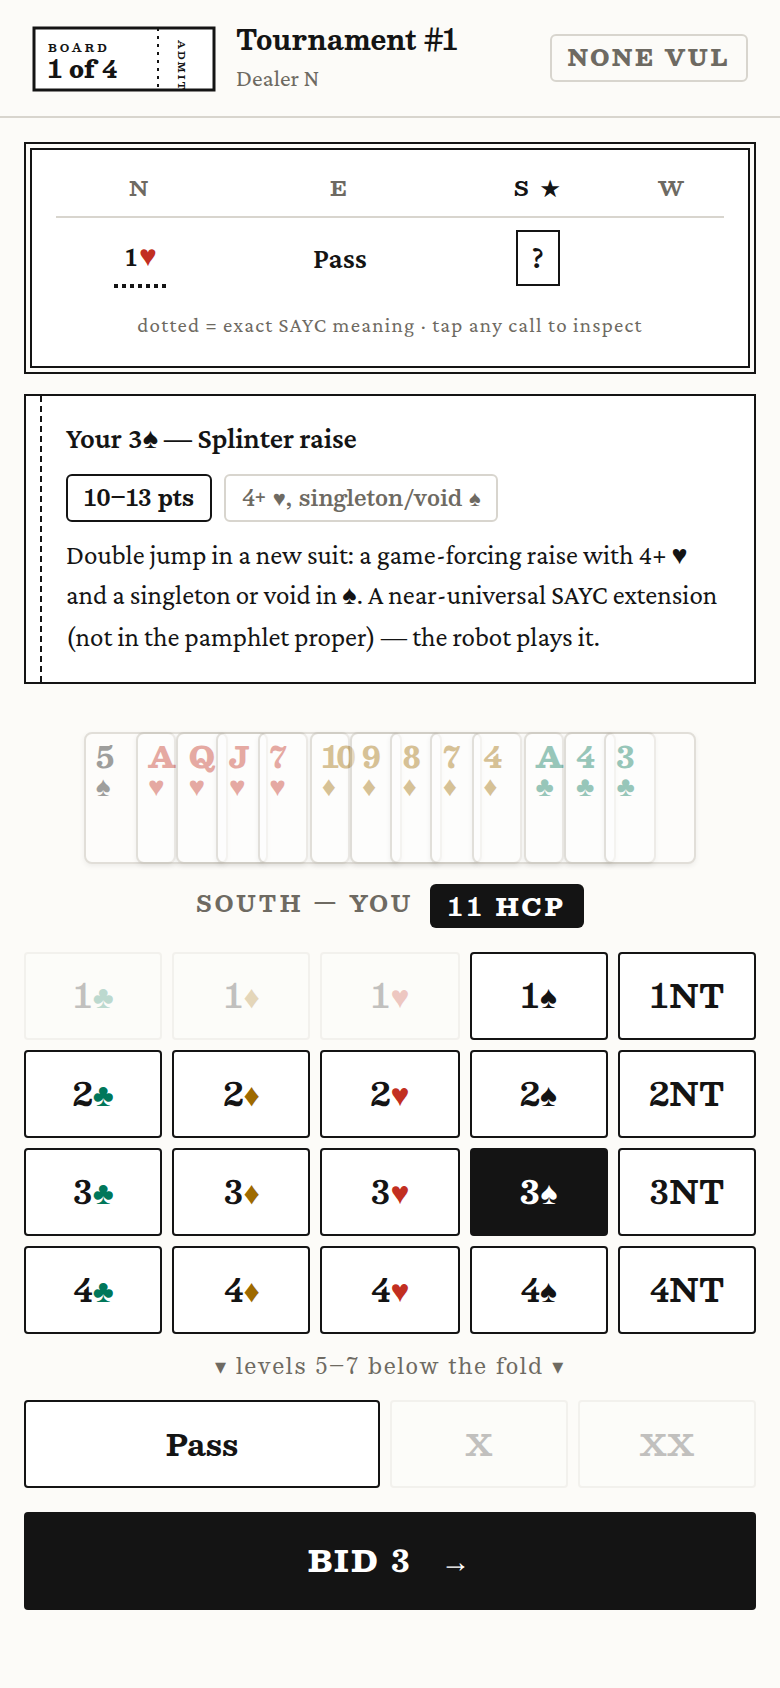
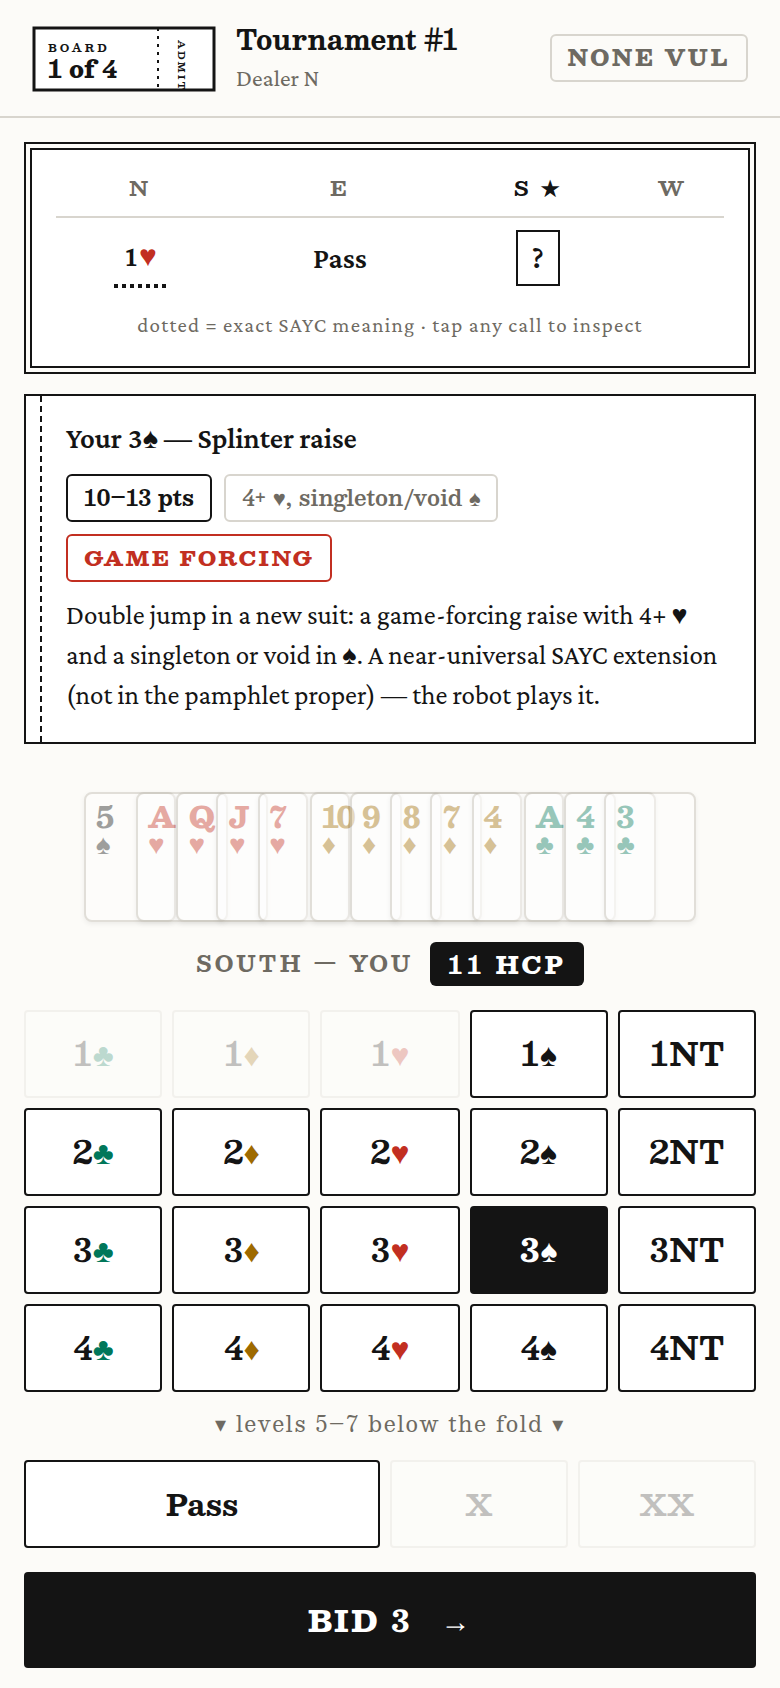
Add forcing / game-forcing chips to bid meaning panels
New BidMeaning.forcing field ('one-round' | 'game') rendered as a
qualifier chip next to the points/shape chips in the meaning panel and
call inspector: red GAME FORCING, ink FORCING. Annotated across the
explainer: forcing one round (new suits by responder, 2C opening,
reverse, new suit over a preempt, takeout/negative doubles, Michaels)
and game forcing (jump shift, splinter, 2NT response, positive
responses to 2C, opener's jump shift).

Claude-Session: https://claude.ai/code/session_01LmTkZCLQctt6mjnH2m7avz

diff --git a/packages/core/src/sayc.ts b/packages/core/src/sayc.ts
@@ -35,6 +35,8 @@ export interface BidMeaning {
   shapePromise?: string;
   /** true when the call is a recognized artificial/conventional bid */
   artificial?: boolean;
+  /** partner may not pass: forcing for one round, or forcing to game */
+  forcing?: 'one-round' | 'game';
   /** false when we fell back to a generic explanation */
   exact: boolean;
   /**
@@ -178,7 +180,7 @@ function explainDouble(ctx: Ctx): BidMeaning {
     return meaning(
       'Negative double',
       'Takeout of the overcall: shows the unbid major(s) (typically exactly 4 cards) and enough points to compete — about 6+ at the one level, 8+ at the two level. Partner is asked to pick a suit.',
-      { points: '6+ pts', artificial: true },
+      { points: '6+ pts', artificial: true, forcing: 'one-round' },
     );
   }
 
@@ -194,7 +196,7 @@ function explainDouble(ctx: Ctx): BidMeaning {
     return meaning(
       'Takeout double',
       `Asks partner to bid their best unbid suit. Shows opening values (13+ points, or a bit less with perfect shape), shortness in ${S[strain]}, and support for the unbid suits.`,
-      { points: '13+ pts (or 11–12 with ideal shape)', artificial: true },
+      { points: '13+ pts (or 11–12 with ideal shape)', artificial: true, forcing: 'one-round' },
     );
   }
 
@@ -279,7 +281,7 @@ function explainOpening(level: number, strain: Strain): BidMeaning | null {
       return meaning(
         '2♣ opening',
         'Strong and artificial — says nothing about clubs. Almost game-forcing: 22+ HCP, or a hand within one trick of game. Partner must respond (2♦ is the usual "waiting" reply).',
-        { points: '22+ pts', artificial: true, req: { minHcp: 21 } },
+        { points: '22+ pts', artificial: true, forcing: 'one-round', req: { minHcp: 21 } },
       );
     if (strain === 4)
       return meaning('2NT opening', 'A balanced 20–21 HCP. Not forcing; partner may pass with a very weak hand.', {
@@ -496,6 +498,7 @@ function explainResponse(ctx: Ctx, call: Call, level: number, strain: Strain): B
       return meaning('2NT response', 'Balanced 13–15 points without a fit — forcing to game in SAYC.', {
         points: '13–15 HCP',
         shapePromise: 'balanced',
+        forcing: 'game',
         req: { minHcp: 13, maxHcp: 15, balanced: true },
       });
     if (call === makeBid(3, 4))
@@ -521,6 +524,7 @@ function explainResponse(ctx: Ctx, call: Call, level: number, strain: Strain): B
             points: '10–13 pts',
             shapePromise: `4+ ${S[openStrain]}, singleton/void ${S[strain]}`,
             artificial: true,
+            forcing: 'game',
             req: { minHcp: 9, maxHcp: 14, suits: [{ strain: openStrain, min: 4 }, { strain, max: 1 }] },
           },
         );
@@ -528,13 +532,23 @@ function explainResponse(ctx: Ctx, call: Call, level: number, strain: Strain): B
         return meaning(
           'Jump shift',
           `A strong jump in a new suit: 17+ points with a good 5+ card ${S[strain]} suit. Game forcing, suggests slam.`,
-          { points: '17+ pts', shapePromise: `5+ ${S[strain]}`, req: { minHcp: 16, suits: [{ strain, min: 5 }] } },
+          {
+            points: '17+ pts',
+            shapePromise: `5+ ${S[strain]}`,
+            forcing: 'game',
+            req: { minHcp: 16, suits: [{ strain, min: 5 }] },
+          },
         );
       if (level === 1)
         return meaning(
           `New suit at the 1 level`,
           `Natural and forcing one round: 4+ ${S[strain]} and 6+ points. Opener must bid again.`,
-          { points: '6+ pts', shapePromise: `4+ ${S[strain]}`, req: { minHcp: 5, suits: [{ strain, min: 4 }] } },
+          {
+            points: '6+ pts',
+            shapePromise: `4+ ${S[strain]}`,
+            forcing: 'one-round',
+            req: { minHcp: 5, suits: [{ strain, min: 4 }] },
+          },
         );
       if (level === minLevel)
         return meaning(
@@ -543,6 +557,7 @@ function explainResponse(ctx: Ctx, call: Call, level: number, strain: Strain): B
           {
             points: '10+ pts',
             shapePromise: `${strain === 2 && openStrain === 3 ? '5+' : '4+'} ${S[strain]}`,
+            forcing: 'one-round',
             req: { minHcp: 10, suits: [{ strain, min: strain === 2 && openStrain === 3 ? 5 : 4 }] },
           },
         );
@@ -555,11 +570,17 @@ function explainResponse(ctx: Ctx, call: Call, level: number, strain: Strain): B
       return meaning(
         `Positive response`,
         `Natural and positive opposite the strong 2♣: a good 5+ card ${S[strain]} suit and 8+ points. (With less, respond 2♦ waiting.)`,
-        { points: '8+ pts', shapePromise: `5+ ${S[strain]}`, req: { minHcp: 7, suits: [{ strain, min: 5 }] } },
+        {
+          points: '8+ pts',
+          shapePromise: `5+ ${S[strain]}`,
+          forcing: 'game',
+          req: { minHcp: 7, suits: [{ strain, min: 5 }] },
+        },
       );
     return meaning('2NT positive', 'Balanced 8+ points opposite the strong 2♣ opening.', {
       points: '8+ HCP',
       shapePromise: 'balanced',
+      forcing: 'game',
       req: { minHcp: 8, balanced: true },
     });
   }
@@ -576,7 +597,12 @@ function explainResponse(ctx: Ctx, call: Call, level: number, strain: Strain): B
       return meaning(
         'New suit over the preempt',
         `Natural and forcing: a good 5+ card ${S[strain]} suit and interest in game.`,
-        { points: '15+ pts', shapePromise: `5+ ${S[strain]}`, req: { minHcp: 14, suits: [{ strain, min: 5 }] } },
+        {
+          points: '15+ pts',
+          shapePromise: `5+ ${S[strain]}`,
+          forcing: 'one-round',
+          req: { minHcp: 14, suits: [{ strain, min: 5 }] },
+        },
       );
     if (strain === 4 && level === 3)
       return meaning('3NT over the preempt', 'To play: stoppers in the unbid suits and expectation of nine tricks (often with a fit or source of tricks).', {
@@ -651,6 +677,7 @@ function explainOpenerRebid(ctx: Ctx, call: Call, level: number, strain: Strain)
         return meaning('Jump shift by opener', 'A very strong two-suiter: about 19+ points. Game forcing.', {
           points: '19+ pts',
           shapePromise: `4+ ${S[strain]}`,
+          forcing: 'game',
           req: { minHcp: 18, suits: [{ strain, min: 4 }] },
         });
       if (isReverse)
@@ -660,6 +687,7 @@ function explainOpenerRebid(ctx: Ctx, call: Call, level: number, strain: Strain)
           {
             points: '17+ pts',
             shapePromise: `4+ ${S[strain]}, longer ${S[openStrain]}`,
+            forcing: 'one-round',
             req: { minHcp: 16, suits: [{ strain, min: 4 }] },
           },
         );
@@ -688,6 +716,7 @@ function explainOvercall(ctx: Ctx, call: Call, level: number, strain: Strain): B
       points: '8+ pts',
       shapePromise: shows,
       artificial: true,
+      forcing: 'one-round',
     });
   }
 

diff --git a/packages/core/test/sayc.test.ts b/packages/core/test/sayc.test.ts
@@ -19,6 +19,7 @@ interface Row {
   title?: string; // substring match
   points?: string; // exact `points` field
   artificial?: boolean;
+  forcing?: 'one-round' | 'game' | null; // null asserts NOT forcing
   exact?: boolean; // explanation is pamphlet-exact (default true)
 }
 
@@ -28,7 +29,7 @@ const SPEC: Row[] = [
   { name: '1♦ opening', calls: [], candidate: b(1, 1), title: '1♦ opening', points: '13–21 pts' },
   { name: '1♥ opening promises 5', calls: [], candidate: b(1, 2), title: '1♥ opening', points: '13–21 pts' },
   { name: '1NT opening', calls: [], candidate: b(1, 4), title: '1NT opening', points: '15–17 HCP' },
-  { name: '2♣ strong artificial', calls: [], candidate: b(2, 0), title: '2♣ opening', artificial: true },
+  { name: '2♣ strong artificial', calls: [], candidate: b(2, 0), title: '2♣ opening', artificial: true, forcing: 'one-round' },
   { name: 'weak two', calls: [], candidate: b(2, 3), title: 'Weak two', points: '5–11 HCP' },
   { name: '2NT opening', calls: [], candidate: b(2, 4), title: '2NT opening', points: '20–21 HCP' },
   { name: '3-level preempt', calls: [], candidate: b(3, 2), title: 'Preempt', points: '5–10 HCP' },
@@ -36,13 +37,13 @@ const SPEC: Row[] = [
 
   // ---- responses to suit openings ----
   { name: 'single raise', calls: [b(1, 3), PASS], candidate: b(2, 3), title: 'Single raise', points: '6–10 pts' },
-  { name: 'limit raise', calls: [b(1, 3), PASS], candidate: b(3, 3), title: 'Limit raise', points: '10–12 pts' },
+  { name: 'limit raise', calls: [b(1, 3), PASS], candidate: b(3, 3), title: 'Limit raise', points: '10–12 pts', forcing: null },
   { name: '1NT response', calls: [b(1, 2), PASS], candidate: b(1, 4), title: '1NT response', points: '6–10 pts' },
-  { name: 'new suit 1-level forcing', calls: [b(1, 0), PASS], candidate: b(1, 3), title: 'New suit at the 1 level', points: '6+ pts' },
+  { name: 'new suit 1-level forcing', calls: [b(1, 0), PASS], candidate: b(1, 3), title: 'New suit at the 1 level', points: '6+ pts', forcing: 'one-round' },
   { name: 'two-over-one', calls: [b(1, 3), PASS], candidate: b(2, 1), title: 'New suit at the 2 level', points: '10+ pts' },
-  { name: 'jump shift response', calls: [b(1, 0), PASS], candidate: b(2, 3), title: 'Jump shift', points: '17+ pts' },
+  { name: 'jump shift response', calls: [b(1, 0), PASS], candidate: b(2, 3), title: 'Jump shift', points: '17+ pts', forcing: 'game' },
   { name: 'jump shift is a single jump only', calls: [b(1, 2), PASS], candidate: b(2, 3), title: 'Jump shift', points: '17+ pts' },
-  { name: 'splinter 4♣ over 1♥', calls: [b(1, 2), PASS], candidate: b(4, 0), title: 'Splinter', points: '10–13 pts', artificial: true },
+  { name: 'splinter 4♣ over 1♥', calls: [b(1, 2), PASS], candidate: b(4, 0), title: 'Splinter', points: '10–13 pts', artificial: true, forcing: 'game' },
   { name: 'splinter 3♠ over 1♥', calls: [b(1, 2), PASS], candidate: b(3, 3), title: 'Splinter', points: '10–13 pts', artificial: true },
   { name: 'splinter 4♥ over 1♠', calls: [b(1, 3), PASS], candidate: b(4, 2), title: 'Splinter', points: '10–13 pts', artificial: true },
   { name: 'no splinter over a minor — honest fallback', calls: [b(1, 0), PASS], candidate: b(3, 3), exact: false },
@@ -70,7 +71,7 @@ const SPEC: Row[] = [
   { name: 'Blackwood 5♦ = 1 ace', dealer: 2, calls: [b(1, 3), PASS, b(3, 3), PASS, b(4, 4), PASS], candidate: b(5, 1), title: 'Blackwood response', artificial: true },
 
   // ---- competitive ----
-  { name: 'takeout double', calls: [b(1, 2)], candidate: DOUBLE, title: 'Takeout double', artificial: true },
+  { name: 'takeout double', calls: [b(1, 2)], candidate: DOUBLE, title: 'Takeout double', artificial: true, forcing: 'one-round' },
   { name: 'negative double', calls: [b(1, 1), b(1, 3)], candidate: DOUBLE, title: 'Negative double', artificial: true },
   { name: 'penalty double high level', calls: [b(4, 3)], candidate: DOUBLE, title: 'Penalty double' },
   { name: 'one-level overcall', calls: [b(1, 0)], candidate: b(1, 3), title: 'One-level overcall', points: '8–16 pts' },
@@ -100,6 +101,7 @@ describe('SAYC explainer spec table', () => {
       if (row.title) expect(meaning!.title).toContain(row.title);
       if (row.points) expect(meaning!.points).toBe(row.points);
       if (row.artificial !== undefined) expect(Boolean(meaning!.artificial)).toBe(row.artificial);
+      if (row.forcing !== undefined) expect(meaning!.forcing ?? null).toBe(row.forcing);
       expect(meaning!.exact).toBe(row.exact ?? true);
       expect(meaning!.description.length).toBeGreaterThan(20);
     });

diff --git a/web/src/components/game/MeaningPanel.tsx b/web/src/components/game/MeaningPanel.tsx
@@ -2,6 +2,16 @@ import type { BidMeaning } from '../../api';
 import { Chip } from '../ds/Chip';
 import { CallText } from './CallText';
 
+/** Forcing qualifier chip: red for game-forcing, ink for forcing one round. */
+export function ForcingChip({ forcing }: { forcing?: BidMeaning['forcing'] }) {
+  if (!forcing) return null;
+  return forcing === 'game' ? (
+    <Chip color="var(--accent)">GAME FORCING</Chip>
+  ) : (
+    <Chip color="var(--ink)">FORCING</Chip>
+  );
+}
+
 /**
  * The SAYC meaning panel (perforated). Four content states:
  * placeholder (nothing selected), full meaning, meaning without the exact
@@ -38,10 +48,11 @@ export function MeaningPanel({
       <div className="mtitle">
         {prefix} {call !== undefined ? <CallText call={call} /> : null} — {meaning.title}
       </div>
-      {meaning.points || meaning.shapePromise ? (
+      {meaning.points || meaning.shapePromise || meaning.forcing ? (
         <div className="meaning-chips">
           {meaning.points ? <Chip>{meaning.points}</Chip> : null}
           {meaning.shapePromise ? <Chip quiet>{meaning.shapePromise}</Chip> : null}
+          <ForcingChip forcing={meaning.forcing} />
         </div>
       ) : null}
       <div className="meaning-body">{meaning.description}</div>

diff --git a/web/src/components/game/CallInspector.tsx b/web/src/components/game/CallInspector.tsx
@@ -1,6 +1,7 @@
 import { SEAT_SHORT, type AuctionEntry, callDisplay } from '../../api';
 import { Chip } from '../ds/Chip';
 import { Dialog } from '../ds/Dialog';
+import { ForcingChip } from './MeaningPanel';
 
 /** Bottom-sheet inspector for a past auction call. */
 export function CallInspector({ entry, onClose }: { entry: AuctionEntry; onClose: () => void }) {
@@ -10,10 +11,11 @@ export function CallInspector({ entry, onClose }: { entry: AuctionEntry; onClose
     <Dialog title={title} onClose={onClose}>
       {m ? (
         <>
-          {m.points || m.shapePromise ? (
+          {m.points || m.shapePromise || m.forcing ? (
             <div className="meaning-chips">
               {m.points ? <Chip>{m.points}</Chip> : null}
               {m.shapePromise ? <Chip quiet>{m.shapePromise}</Chip> : null}
+              <ForcingChip forcing={m.forcing} />
             </div>
           ) : null}
           <div className="meaning-body">{m.description}</div>

diff --git a/web/src/api.ts b/web/src/api.ts
@@ -12,6 +12,8 @@ export interface BidMeaning {
   points?: string;
   shapePromise?: string;
   artificial?: boolean;
+  /** partner may not pass: forcing for one round, or forcing to game */
+  forcing?: 'one-round' | 'game';
   exact: boolean;
 }
 